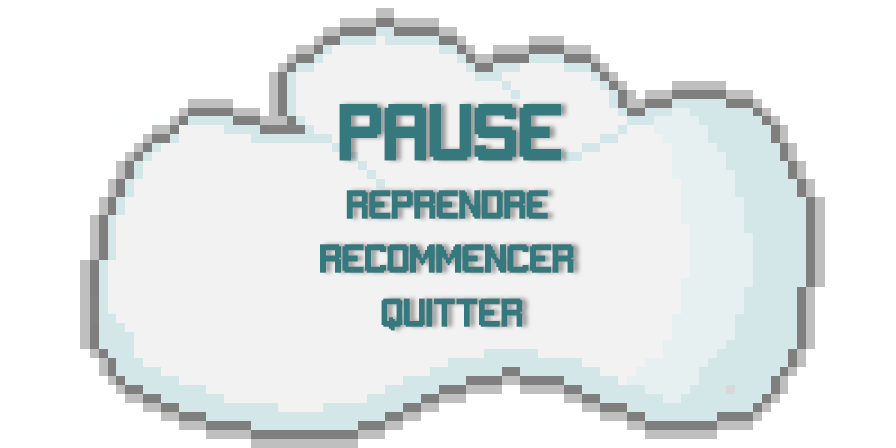
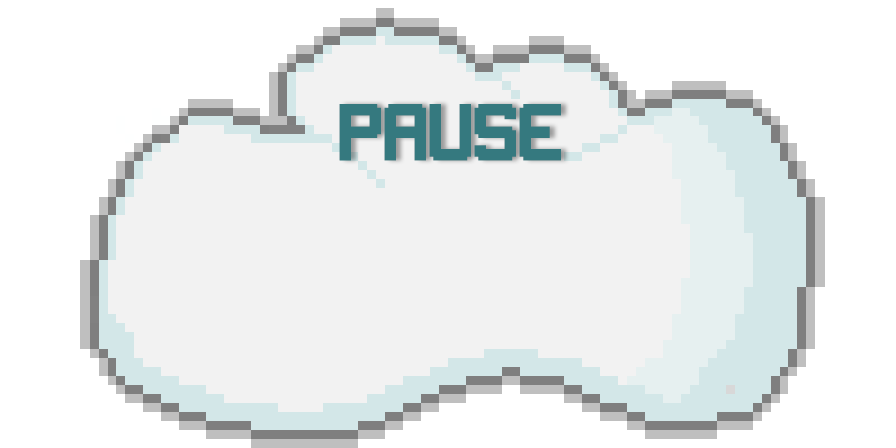
11/06 - Implantation portable V1

Changed region(s): [[0.3438, 0.5312, 0.6562, 0.625], [0.375, 0.4062, 0.625, 0.5], [0.4062, 0.6562, 0.5938, 0.75]]

diff --git a/level.js b/level.js
@@ -77,9 +77,19 @@ var parallax1;
 var parallax2;
 
 var dialogue1;
+var etatdialogue;
 
 var menupause;
 var etatpause;
+var reprendre;
+var recommencer;
+var mainmenu;
+
+var porthaut
+var portdroite
+var portgauche
+var portpotion
+var portprojectile
 
 class Level extends Phaser.Scene{
     constructor(){
@@ -138,6 +148,11 @@ class Level extends Phaser.Scene{
 
         this.load.image('pause', 'assets/pause.png');
 
+        this.load.image('porthaut', 'assets/haut.png');
+        this.load.image('portgauche', 'assets/gauche.png');
+        this.load.image('portdroite', 'assets/droite.png');
+        this.load.image('portproj', 'assets/portproj.png');
+        this.load.image('portpot', 'assets/portpot.png');
 
         /*Tilemap*/
         this.load.tilemapTiledJSON('cartealpha', 'Tiled/CarteAlpha.json');
@@ -149,6 +164,12 @@ class Level extends Phaser.Scene{
         this.load.spritesheet('ennemivol', 'assets/drone.png', { frameWidth: 38, frameHeight: 26 });
         this.load.spritesheet('tourelle', 'assets/tourelle.png', { frameWidth: 30, frameHeight: 42 });
         this.load.spritesheet('boss', 'assets/BOSS.png', { frameWidth: 600, frameHeight: 400 });
+
+        // Sprites Interface
+
+        this.load.spritesheet('reprendre', 'assets/reprendre.png', { frameWidth: 225, frameHeight: 50 });
+        this.load.spritesheet('recommencer', 'assets/recommencer.png', { frameWidth: 273, frameHeight: 50 });
+        this.load.spritesheet('mainmenu', 'assets/mainmenu.png', { frameWidth: 160, frameHeight: 50 });
         
     }
 
@@ -185,11 +206,10 @@ class Level extends Phaser.Scene{
         pause = this.input.keyboard.addKeys('ESC')
 
         /*Création Sprites*/
-        player = this.physics.add.sprite(450, 360, 'perso');
+        player = this.physics.add.sprite(450, 350, 'perso');
         player.setGravity(0, 1000);
         player.setSize(30,45)
         player.setOffset(10,25)
-        player.setCollideWorldBounds(true)
 
         ennemiGD = this.physics.add.sprite(874, 300, 'ennemiGD');
         ennemiGD.setGravity(0, 1000);
@@ -280,6 +300,26 @@ class Level extends Phaser.Scene{
         afficheCle.setScrollFactor(0);
         afficheCle.setDepth(1);
 
+        porthaut = this.add.image(770,315, 'porthaut')
+        porthaut.setScrollFactor(0)
+        porthaut.setDepth(9);
+
+        portgauche = this.add.image(695,390, 'portgauche')
+        portgauche.setScrollFactor(0)
+        portgauche.setDepth(9);
+
+        portdroite = this.add.image(845,390, 'portdroite')
+        portdroite.setScrollFactor(0)
+        portdroite.setDepth(9);
+
+        portprojectile = this.add.image(65,320, 'portproj')
+        portprojectile.setScrollFactor(0)
+        portprojectile.setDepth(9);
+
+        portpotion = this.add.image(150,380, 'portpot')
+        portpotion.setScrollFactor(0)
+        portpotion.setDepth(9);
+
         /*Init Variables */
         vie = 3
         mana = 4
@@ -291,10 +331,12 @@ class Level extends Phaser.Scene{
         etatpause = false
         porteouverte = false
 
-        /*dialogue1 = this.add.image(448,360,'dialogue1')
+        // Premier dialogue
+        dialogue1 = this.add.image(448,360,'dialogue1')
         dialogue1.setDepth(10)
         dialogue1.setScrollFactor(0)
-        this.physics.pause()*/
+        this.physics.pause()
+        etatdialogue = true
 
         /*Animations*/
 
@@ -365,6 +407,42 @@ class Level extends Phaser.Scene{
             frames: this.anims.generateFrameNumbers('perso', { start: 14, end: 15 }),
             frameRate: 3,
             repeat: 0
+        });
+
+        this.anims.create({
+            key: 'reprendre',
+            frames: [ { key: 'reprendre', frame: 1} ],
+            framerate : 10
+        });
+
+        this.anims.create({
+            key: 'reprendreglow',
+            frames: [ { key: 'reprendre', frame: 2} ],
+            framerate : 10
+        });
+
+        this.anims.create({
+            key: 'recommencer',
+            frames: [ { key: 'recommencer', frame: 1} ],
+            framerate : 10
+        });
+
+        this.anims.create({
+            key: 'recommencerglow',
+            frames: [ { key: 'recommencer', frame: 2} ],
+            framerate : 10
+        });
+
+        this.anims.create({
+            key: 'mainmenu',
+            frames: [ { key: 'mainmenu', frame: 1} ],
+            framerate : 10
+        });
+
+        this.anims.create({
+            key: 'mainmenuglow',
+            frames: [ { key: 'mainmenu', frame: 2} ],
+            framerate : 10
         });
 
         /*Fonctions*/
@@ -463,7 +541,8 @@ class Level extends Phaser.Scene{
         timerinvuboss++
 
         /*Controles joueur*/
-        if (right.D.isDown && etatpause == false)
+
+        if (right.D.isDown && etatpause == false && etatdialogue == false)
         {
             player.setVelocityX(200);
             player.setFlipX(false);
@@ -474,7 +553,7 @@ class Level extends Phaser.Scene{
             sensperso = 0;
         }
         
-        else if (left.Q.isDown && etatpause == false)
+        else if (left.Q.isDown && etatpause == false && etatdialogue == false)
         {
             player.setVelocityX(-200);
             player.setFlipX(true);
@@ -485,10 +564,12 @@ class Level extends Phaser.Scene{
             sensperso = 1;
         }
     
-        else if (onGround)
+        else
         {
-            player.anims.play('persoidle', true)
             player.setVelocityX(0); 
+            if (onGround){
+                player.anims.play('persoidle', true)
+            }
         }
 
         const jump = Phaser.Input.Keyboard.JustDown(up.Z);
@@ -515,14 +596,14 @@ class Level extends Phaser.Scene{
 
         /*Ennemis classiques*/
 
-        if (ennemiGD.x <= 632 && etatpause == false)
+        if (ennemiGD.x <= 632 && etatpause == false && etatdialogue == false)
         {
             ennemiGD.setVelocityX(100);
             ennemiGD.anims.play('ennemiGD', true)
             ennemiGD.setFlipX(true);
         }
 
-        else if (ennemiGD.x >= 874 && etatpause == false)
+        else if (ennemiGD.x >= 874 && etatpause == false && etatdialogue == false)
         {
             ennemiGD.setVelocityX(-100); 
             ennemiGD.anims.play('ennemiGD', true)  
@@ -633,12 +714,13 @@ class Level extends Phaser.Scene{
 
         /*Creation plateforme*/
         this.input.on('pointerdown', function (pointer) {
-            if (this.input.manager.activePointer.isDown && cooldown == false && mana >= 1 && plateformeexist == false && etatsort == false && etatpause == false){
+            if (this.input.manager.activePointer.isDown && cooldown == false && mana >= 1 && plateformeexist == false && etatsort == false && etatpause == false && etatdialogue == false){
                 player.anims.play('persosort', true)
                 const worldPoint = this.input.activePointer.positionToCamera(this.cameras.main);
                 bloc = plateforme.create(worldPoint.x, worldPoint.y, 'plateforme')
                 bloc.setScale(1.5)
                 bloc.setImmovable(true);
+                bloc.setDepth(0)
                 cooldown = true;
                 etatsort = true;
                 mana--
@@ -663,7 +745,7 @@ class Level extends Phaser.Scene{
         }
 
         /*Tir Projectile*/
-        if (mana >= 1 && etatpause == false){
+        if (mana >= 1 && etatpause == false && etatdialogue == false){
             const tirer = Phaser.Input.Keyboard.JustDown(boutontir.SPACE);
 
             if (tirer && etatsort == false){
@@ -690,8 +772,9 @@ class Level extends Phaser.Scene{
             }
         }
 
-        /* INTERFACE */
+        // INTERFACE
 
+            // Pause
 
         const echap = Phaser.Input.Keyboard.JustDown(pause.ESC);
 
@@ -701,22 +784,96 @@ class Level extends Phaser.Scene{
                 menupause = this.add.image(448, 224, 'pause')
                 menupause.setScrollFactor(0);
                 menupause.setDepth(5)
+                reprendre = this.add.sprite(448,205,'reprendre').setInteractive({ cursor: 'pointer' })
+                reprendre.setScrollFactor(0);
+                reprendre.setDepth(6)
+                recommencer = this.add.sprite(448,260,'recommencer').setInteractive({ cursor: 'pointer' })
+                recommencer.setScrollFactor(0);
+                recommencer.setDepth(6)
+                mainmenu = this.add.sprite(448,315,'mainmenu').setInteractive({ cursor: 'pointer' })
+                mainmenu.setScrollFactor(0);
+                mainmenu.setDepth(6)
+
                 etatpause = true
+                ennemiGD.anims.play('ennemiGD', false)
+                ennemiGD2.anims.play('ennemiGD', false)
+                ennemiGD3.anims.play('ennemiGD', false)
+                ennemiVol.anims.play('ennemiGD', false)
             }
             else if (etatpause == true){
                 this.physics.resume()
                 menupause.destroy()
+                reprendre.destroy()
+                recommencer.destroy()
+                mainmenu.destroy()
                 etatpause = false
+                ennemiGD.anims.play('ennemiGD', true)
+                ennemiGD2.anims.play('ennemiGD', true)
+                ennemiGD3.anims.play('ennemiGD', true)
+                ennemiVol.anims.play('ennemiGD', true)
             }
         }
+
+        if (etatpause == true){
+            reprendre.on('pointerover', function (event) {
+                reprendre.anims.play('reprendre',true);
+            });
+    
+            reprendre.on('pointerout', function (event) {
+                reprendre.anims.play('reprendreglow',true);
+            });
+    
+            reprendre.on('pointerdown', function(){
+                this.physics.resume()
+                menupause.destroy()
+                reprendre.destroy()
+                recommencer.destroy()
+                mainmenu.destroy()
+                etatpause = false
+                ennemiGD.anims.play('ennemiGD', true)
+                ennemiGD2.anims.play('ennemiGD', true)
+                ennemiGD3.anims.play('ennemiGD', true)
+                ennemiVol.anims.play('ennemiGD', true)
+            }, this);
+
+
+            recommencer.on('pointerover', function (event) {
+                recommencer.anims.play('recommencer',true);
+            });
+    
+            recommencer.on('pointerout', function (event) {
+                recommencer.anims.play('recommencerglow',true);
+            });
+    
+            recommencer.on('pointerdown', function(){
+                this.scene.restart()
+            }, this);
+
+
+            mainmenu.on('pointerover', function (event) {
+                mainmenu.anims.play('mainmenu',true);
+            });
+    
+            mainmenu.on('pointerout', function (event) {
+                mainmenu.anims.play('mainmenuglow',true);
+            });
+    
+            mainmenu.on('pointerdown', function(){
+                this.scene.start("scenemenu");
+            }, this);
+        }
         
+            // Dialogues
 
         const passer = Phaser.Input.Keyboard.JustDown(entree.ENTER);
         if (passer){
+            etatdialogue = false
             dialogue1.destroy();
             this.physics.resume()
         }
 
+    
+            // Interface In game
         if (vie == 3){
             if (mana == 4){
                 afficheMana = this.add.image(160,50, 'interface4')

diff --git a/menu.js b/menu.js
@@ -31,7 +31,6 @@ class Menu extends Phaser.Scene{
     create(){
         ingame = false
         intuto = false
-        entree = entree = this.input.keyboard.addKeys('enter');
         this.add.image(448, 224, 'fondmenu')
 
         jouer = this.add.sprite(565,98,'jouer').setInteractive({ cursor: 'pointer' })
